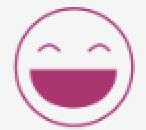
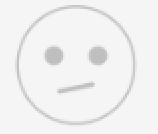
提交评价页面

Changed region(s): [[0.0822, 0.0308, 0.9315, 1.0], [0.5479, 0.3077, 0.7671, 0.4923], [0.2466, 0.3077, 0.4384, 0.4923]]

diff --git a/src/pages/registercom.vue b/src/pages/registercom.vue
@@ -5,9 +5,9 @@
               <img :src="headimg" alt="logo" class="logo">
             </div>
               <p class="register-content__describe">添加一张您的头像</p>
-              <div class="register-content__sex">
+              <!-- <div class="register-content__sex">
                   <button class="male" ref="male" @click="male">男生</button><button class="famale" ref="famale"  @click="famale">女生</button>
-              </div>
+              </div> -->
               <div>
                 <form class="register-content__info" ref="registerform" :model="registerlist" >
                   <div><input type="text" v-model="registerlist.name" placeholder="姓名"></div>
@@ -32,9 +32,6 @@ export default {
   data() {
     return {
       headimg: require('@/assets/imgs/user-img.png'),
-      // backgroundimg: {
-      //   backgroundImage: 'url(' + require('@/assets/imgs/timg.jpeg') + ')'
-      // },
       registerlist: {
         name: '',
         school: '',
@@ -48,25 +45,25 @@ export default {
     }
   },
   methods: {
-    male() {
-      if (this.headimg === 'url(' + require('@/assets/imgs/user-img.png') + ')') {
-        this.$refs.male.style.backgroundColor = '#182B2A'
-        this.$refs.male.style.color = '#167057'
-      } else {
-        this.$refs.male.style.backgroundColor = '#182B2A'
-        this.$refs.male.style.color = '#167057'
-        this.$refs.famale.style.backgroundColor = '#E65155'
-        this.$refs.famale.style.color = 'white'
-        this.headimg = require('@/assets/imgs/user-img.png')
-      }
-    },
-    famale() {
-      this.$refs.male.style.backgroundColor = '#3CB371'
-      this.$refs.male.style.color = 'white'
-      this.$refs.famale.style.backgroundColor = '#5D252E'
-      this.$refs.famale.style.color = '#7F2932'
-      this.headimg = require('@/assets/imgs/img.jpeg')
-    },
+    // male() {
+    //   if (this.headimg === 'url(' + require('@/assets/imgs/user-img.png') + ')') {
+    //     this.$refs.male.style.backgroundColor = '#182B2A'
+    //     this.$refs.male.style.color = '#167057'
+    //   } else {
+    //     this.$refs.male.style.backgroundColor = '#182B2A'
+    //     this.$refs.male.style.color = '#167057'
+    //     this.$refs.famale.style.backgroundColor = '#E65155'
+    //     this.$refs.famale.style.color = 'white'
+    //     this.headimg = require('@/assets/imgs/user-img.png')
+    //   }
+    // },
+    // famale() {
+    //   this.$refs.male.style.backgroundColor = '#3CB371'
+    //   this.$refs.male.style.color = 'white'
+    //   this.$refs.famale.style.backgroundColor = '#5D252E'
+    //   this.$refs.famale.style.color = '#7F2932'
+    //   this.headimg = require('@/assets/imgs/img.jpeg')
+    // },
     addlevel() {
       // var phoneReg = /^((13[0-9])|(14[5,7])|(15[0-3,5-9])|(17[0,3,5-8])|(18[0-9])|166|198|199|(147))\d{8}$/
       // var nameReg = /^[\u4E00-\u9FA5\uf900-\ufa2d·s]{2,20}$/ // 验证姓名正则
@@ -175,7 +172,7 @@ export default {
       border: 5px solid #ffffff;
     }
     .register-content{
-      .margin(150,80,30,80);
+      .margin(200,80,30,80);
       .pl(30);
       .pr(30);
       .b-radius(60);
@@ -186,10 +183,10 @@ export default {
         color:#c54f8b;
       }
     }
-    .register-content__sex{
-      .mt(25);
-      .mb(25);
-    }
+    // .register-content__sex{
+    //   .mt(25);
+    //   .mb(25);
+    // }
     button{
       .mr(10);
       .ml(10);
@@ -197,16 +194,16 @@ export default {
       .b-radius(50);
       border:none;
     }
-    .male{
-      font-weight:bold;
-      background-color:#182B2A;
-      color:#167057;
-    }
-    .famale{
-      font-weight:bold;
-      background-color: #E65155;
-      color:white;
-    }
+    // .male{
+    //   font-weight:bold;
+    //   background-color:#182B2A;
+    //   color:#167057;
+    // }
+    // .famale{
+    //   font-weight:bold;
+    //   background-color: #E65155;
+    //   color:white;
+    // }
    .register-content__info{
       .mb(60);
       div{

diff --git a/src/pages/levelup.vue b/src/pages/levelup.vue
@@ -3,9 +3,15 @@
     <common-header :headerColor="headerColor" :tittle="tittle" :showback="true" :showmore='false'></common-header>
     <div>
         <ul class="level-content--ul">
-            <li class="leve--ul_top">LEVEL UP</li>
+            <li class="leve--ul_top" v-if="activeName==='enter'">注册完成</li>
+            <li class="leve--ul_top"  v-if="activeName!=='enter'"><img src="@/assets/imgs/Logo.png" alt=""></li>
+            <div class="leve--ul_top-btn">
+               <li class="leve--ul_-bot" v-if="activeName==='role'" @click="handelClick">我是学生</li>
+               <li class="leve--ul_-bot" v-if="activeName==='role'" @click="handelClicks">我是公司</li>
+            </div>
+            <li class="leve--ul_-bott" v-if="activeName==='enter'" @click="handelClick">进入LEVE UP</li>
             <li class="leve--ul_-mid">为学生创造价值的平台</li>
-            <li class="leve--ul_-bot" @click="handelClick">开始体验</li>
+            <li class="leve--ul_-bott" v-if="activeName==='experience'" @click="handelClick">开始体验</li>
         </ul>
     </div>
     </div>
@@ -19,12 +25,34 @@ export default {
   data() {
     return {
       tittle: '',
-      headerColor: '#f9ce20'
+      headerColor: '#f9ce20',
+      activeName: ''
     }
   },
   methods: {
     handelClick() {
-      this.$router.push('/Register')
+      if (this.activeName === 'experience') {
+        this.$router.push('/levelup/role')
+      } else if (this.activeName === 'role') {
+        this.$router.push('/Register')
+      } else if (this.activeName === 'enter') {
+        this.$router.push('/index')
+      }
+    },
+    handelClicks() {
+      if (this.activeName === 'role') {
+        this.$router.push('/Registercom')
+      }
+    }
+  },
+  mounted() {
+    this.activeName = this.$route.params.id
+  },
+  // 监听路由的变化
+  watch: {
+    $route(val) {
+      console.log(val, 888)
+      this.activeName = val.params.id
     }
   }
 }
@@ -39,28 +67,41 @@ export default {
       color:#fff;
     .leve--ul_top{
         .fs(40);
-        font-weight: bold;
         letter-spacing:10px;
         .pt(300);
-        .pb(300);
+        .pb(450);
     }
     .leve--ul_-mid{
         .fs(12);
-        .pt(200);
-        .pb(100);
         letter-spacing:10px;
         font-weight: bold;
     }
+    .leve--ul_top-btn{
+      .ml(100);
+      .mr(100);
+      display: flex;
+      justify-content: space-around;
+    }
     .leve--ul_-bot{
         .fs(30);
-        letter-spacing:10px;
+        letter-spacing:5px;
         font-weight: bold;
-         border: 1px solid #fff;
-         .b-radius(70);
-         .mr(240);
-         .ml(240);
-         .pt(10);
-         .pb(10);
+        border: 1px solid #fff;
+        .b-radius(70);
+        .padding(5,15,5,15);
+        .mb(50);
+    }
+    .leve--ul_-bott{
+      .fs(30);
+      letter-spacing:5px;
+      font-weight: bold;
+      border: 1px solid #fff;
+      .b-radius(70);
+      .mr(200);
+      .ml(200);
+      .mb(50);
+      .mt(50);
+      .padding(5,15,5,15);
     }
   }
 }

diff --git a/src/pages/evaluate.vue b/src/pages/evaluate.vue
@@ -6,7 +6,7 @@
        <div class="evaluate-content">
            <p class="evaluate-content--serve">请问你如何评价这次服务</p>
            <ul class="evaluate-content--img">
-               <li v-for="(item,index) in evaluatelist" :key="index" @click="change(index,item.disable)">
+               <li v-for="(item,index) in evaluatelist" :key="index" :class="info"  @click="handelClick(index,item.disable)">
                    <img :src="item.img" alt="">
                    <p>{{item.name}}</p>
                </li>
@@ -36,20 +36,23 @@ export default {
   },
   data() {
     return {
+      showIndex: -1,
       tittle: '',
       evaluatelist: [
         {
-          img: require('@/assets/imgs/face2.png'),
+          img: require('@/assets/imgs/face0.png'),
           name: '符合要求',
           disable: false
         },
         {
-          img: require('@/assets/imgs/face3.png'),
+          img: require('@/assets/imgs/face1.png'),
           name: '比较满意',
           disable: false
         },
         {
           img: require('@/assets/imgs/face2.png'),
+          // info: require('@/assets/imgs/face2.png'),
+          // active: require('@/assets/imgs/facered2.png'),
           name: '远超预期',
           disable: false
         }
@@ -57,13 +60,25 @@ export default {
     }
   },
   methods: {
-    change(index, bol) {
-      console.log(index, bol)
-    //   this.evaluatelist.forEach(item => {
-    //     console.log(item, 88888)
-    //     // item.img = 'url(' + require('@/assets/imgs/face1.png') + ')'
-    //     item.img = require('@/assets/imgs/face1.png')
-    //   })
+    addlevel() {
+
+    },
+    handelClick(index, bol) {
+      // ev.className = ev.className === 'info' ? 'active' : 'info'
+      // ev.children[0].src = ev.className === 'info' ? index.active : index.info
+      this.evaluatelist.forEach((item, index) => {
+        item.img = require(`@/assets/imgs/face${index}.png`)
+      })
+      if (index !== this.showIndex) { // 当点击一次的时候
+        this.evaluatelist[index].disable = true
+        this.evaluatelist[index].img = require(`@/assets/imgs/facered${index}.png`)
+      } else if (index === this.showIndex) {
+        this.evaluatelist[index].disable = !this.evaluatelist[index].disable
+        if (this.evaluatelist[index].disable) { // 当点击多次的时候
+          this.evaluatelist[index].img = require(`@/assets/imgs/facered${index}.png`)
+        }
+      }
+      this.showIndex = index
     }
   }
 }
@@ -72,6 +87,7 @@ export default {
 @import "~styles/index.less";
 @import "~styles/variable.less";
 .evaluate{
+   * { touch-action: pan-y; }
     background-color: #fff;
     .evaluate-content{
        flex: 1;

diff --git a/src/router/index.js b/src/router/index.js
@@ -33,8 +33,15 @@ export default new Router({
   routes: [
     {
       path: '/',
-      name: 'levelup',
-      component: (resolve) => require(['@/pages/levelup'], resolve)
+      name: 'levelup', // 引导页专用
+      component: (resolve) => require(['@/pages/levelup'], resolve),
+      redirect: '/levelup/experience',
+      children: [
+        {
+          path: '/levelup/:id',
+          name: 'experience',
+          component: (resolve) => require(['@/pages/levelup'], resolve)
+        }]
     },
     {
       path: '/index',
@@ -83,6 +90,11 @@ export default new Router({
       path: '/Register',
       name: 'Register',
       component: (resolve) => require(['@/pages/register'], resolve)
+    },
+    {
+      path: '/Registercom',
+      name: 'Registercom',
+      component: (resolve) => require(['@/pages/registercom'], resolve)
     },
     {
       path: '/taskeditor',
